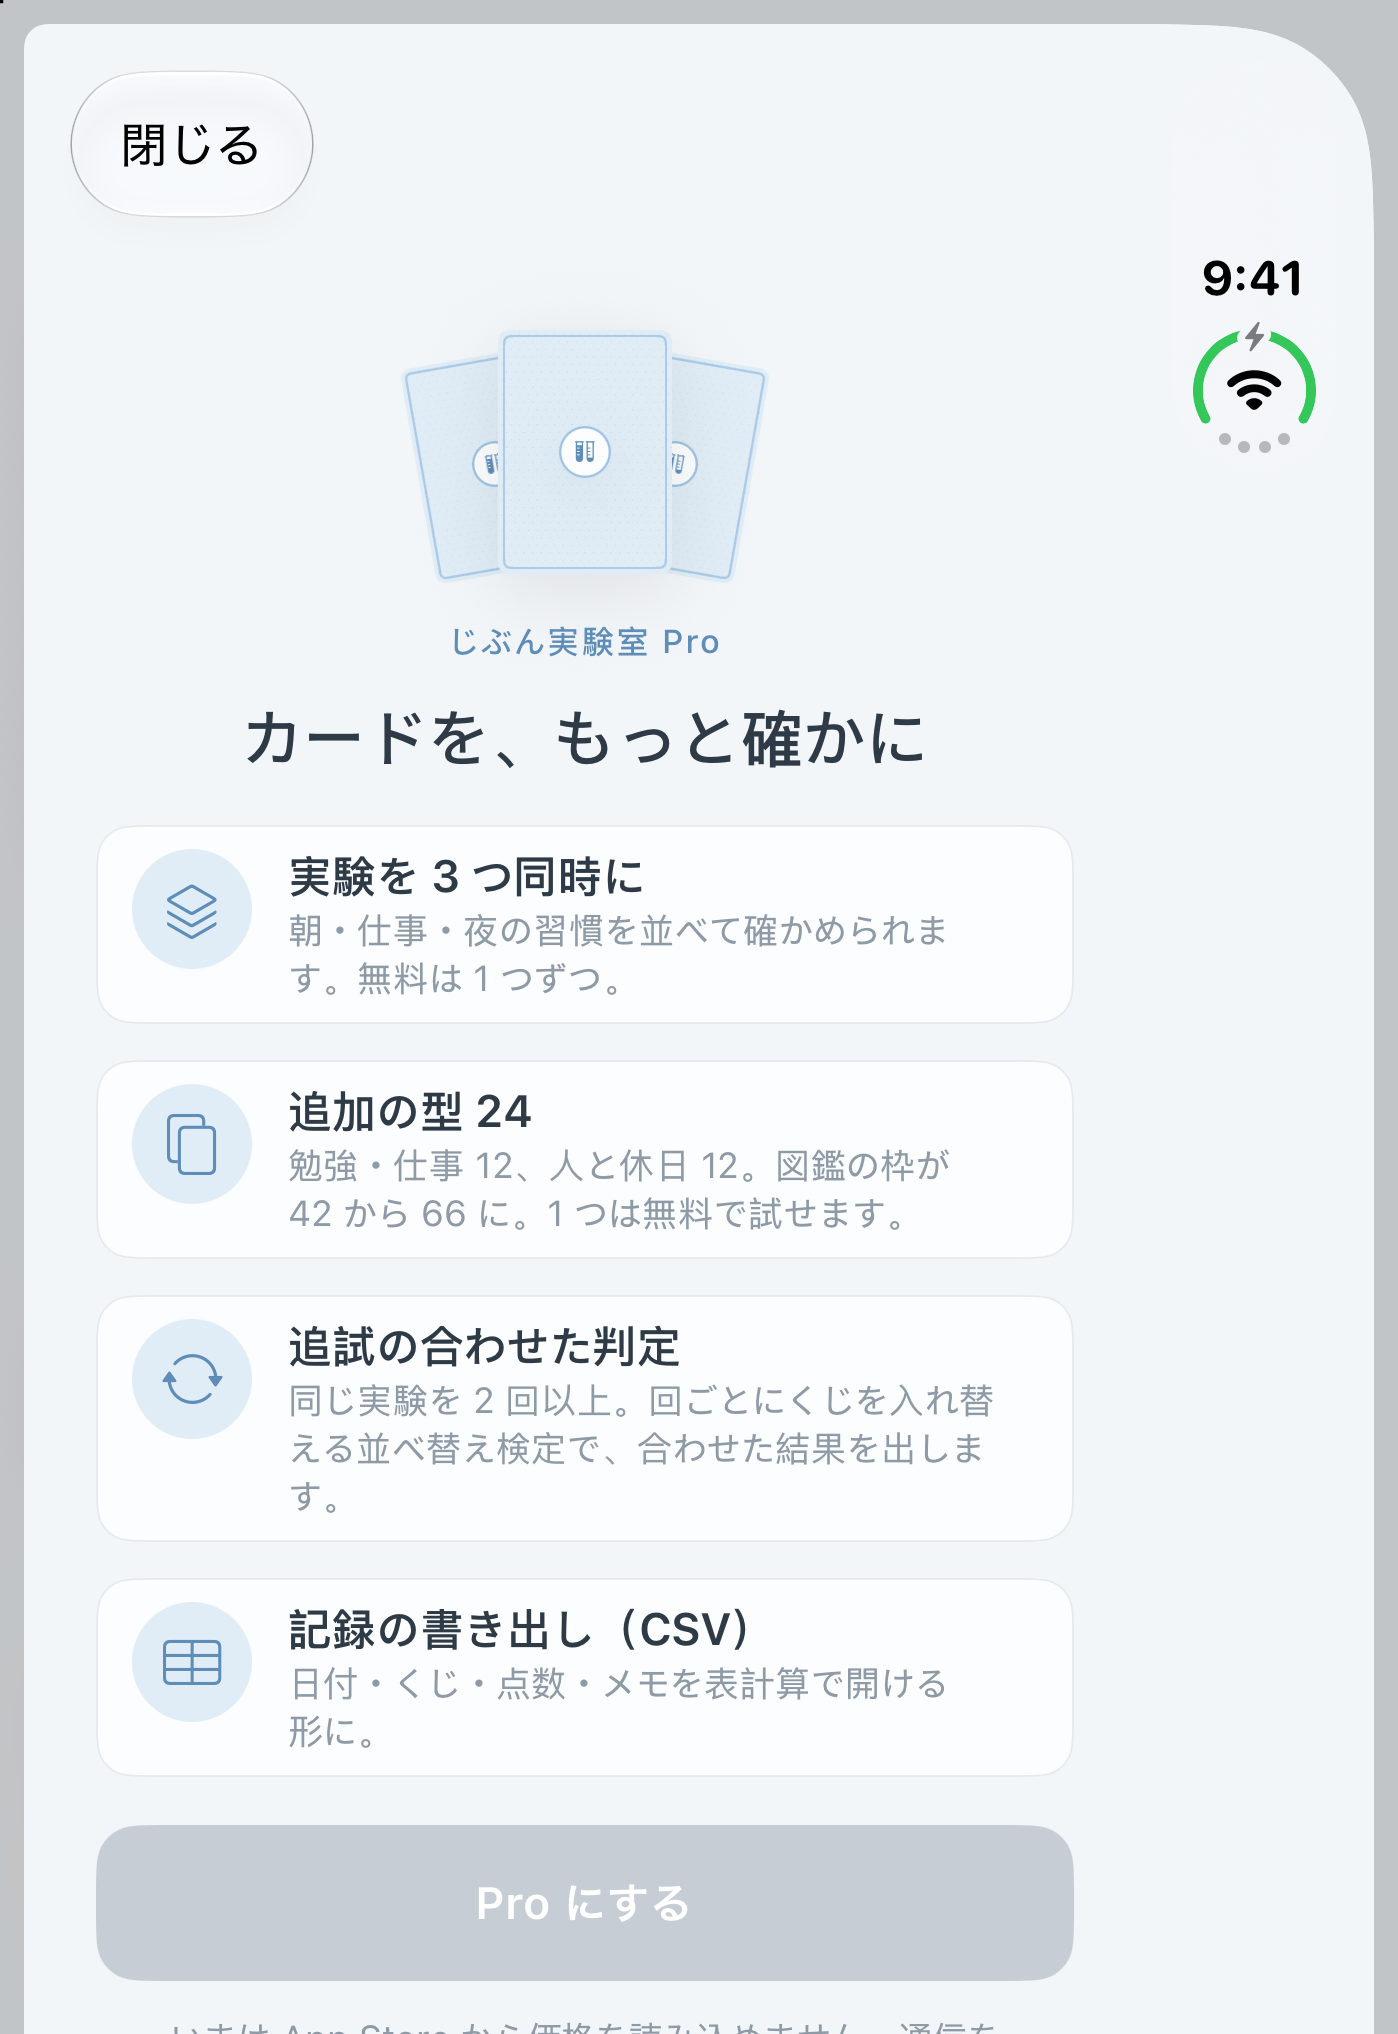
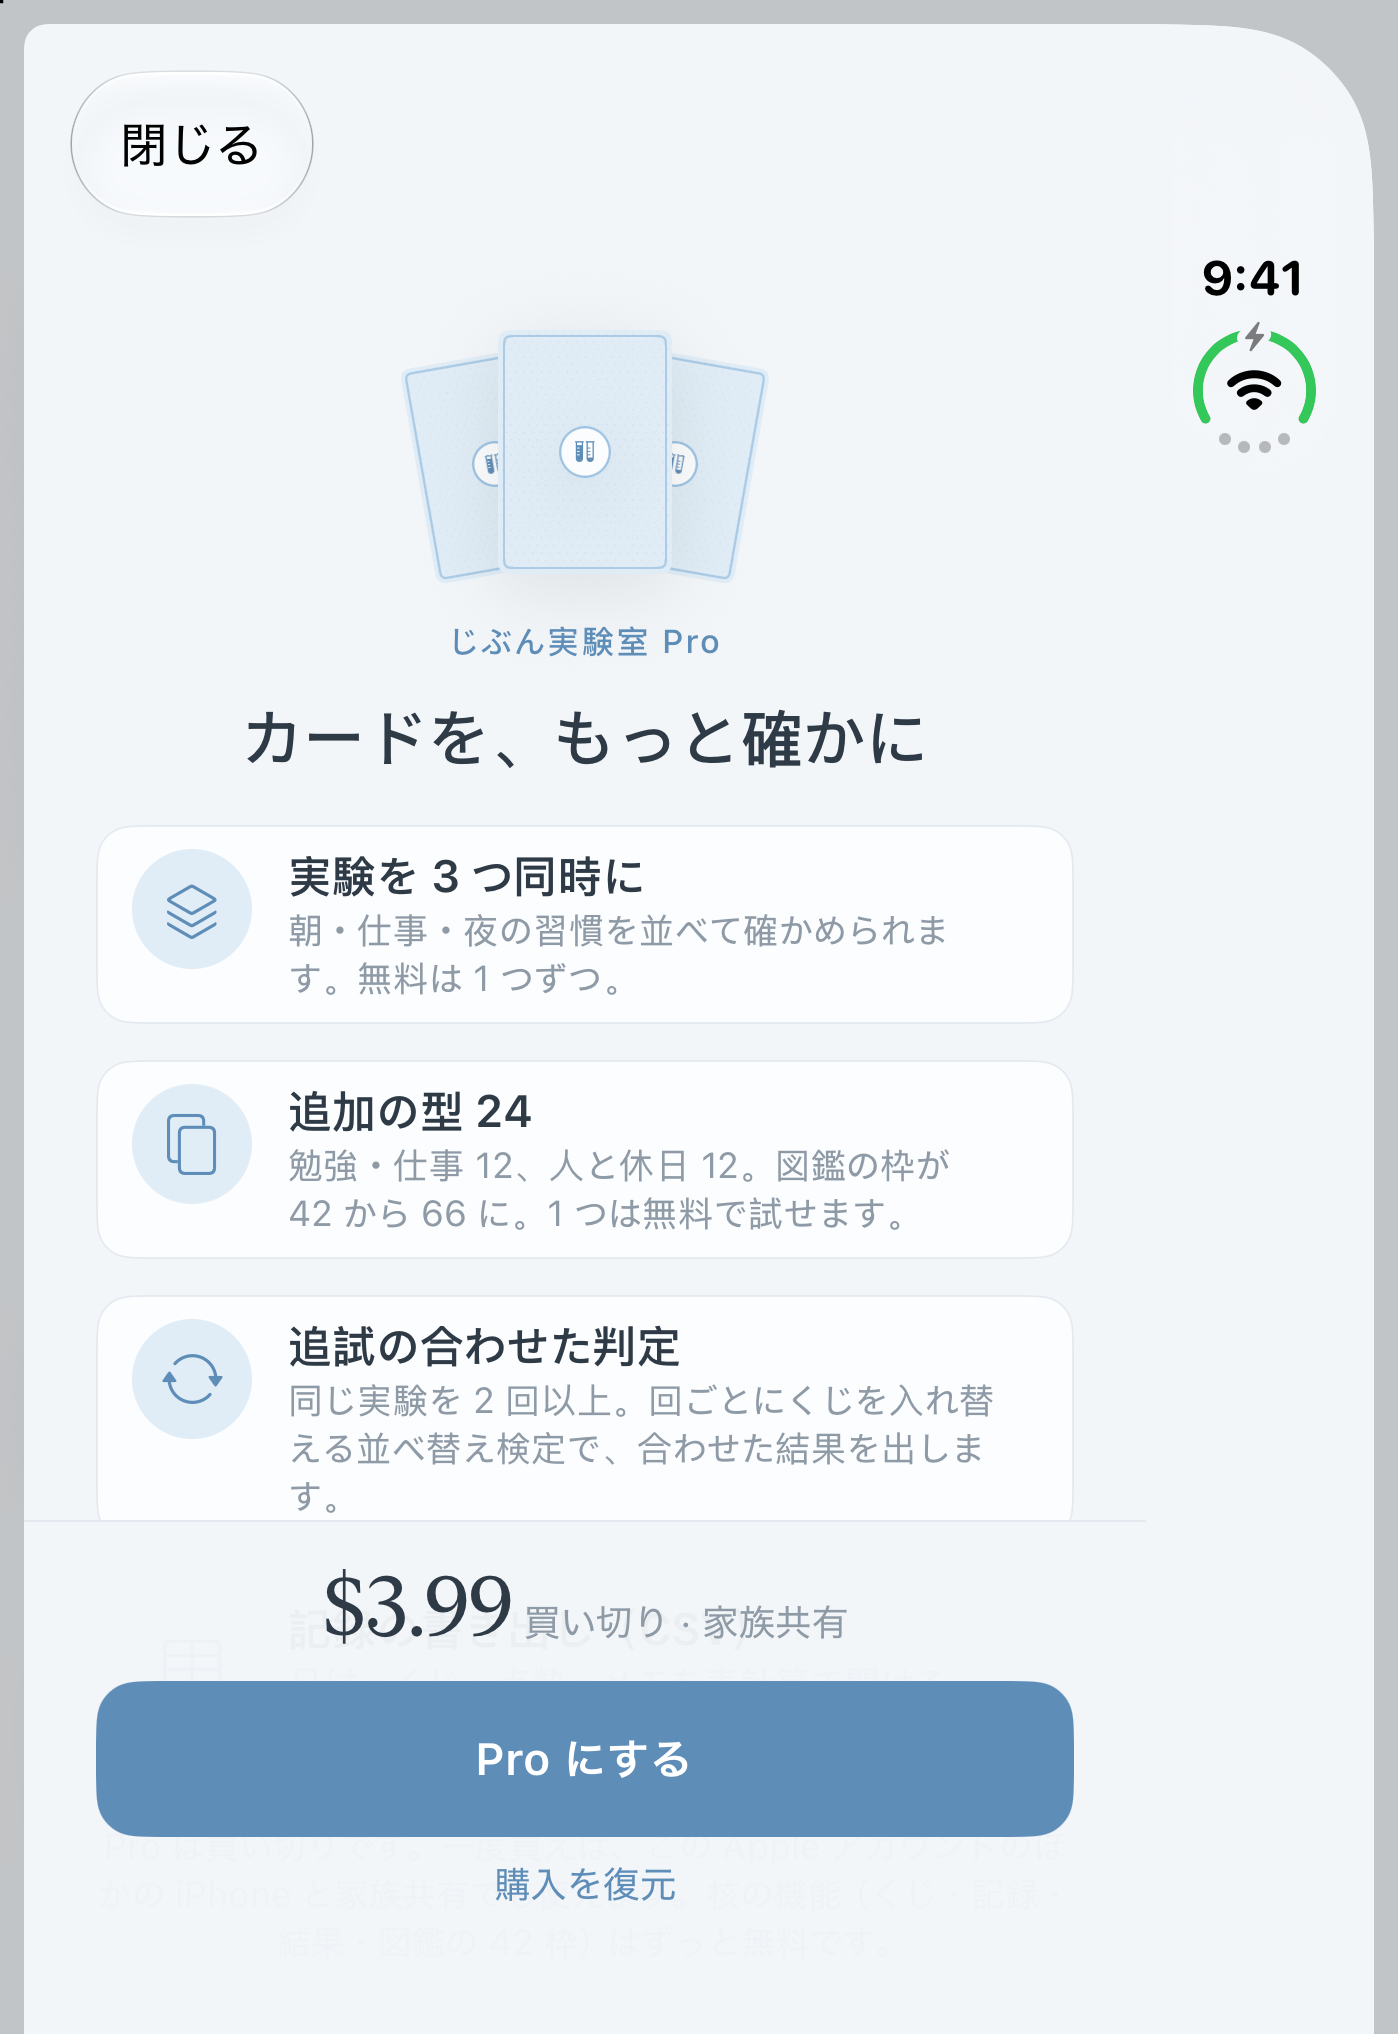
課金の画面の下の帯を不透明に。審査用の画像を値段の見える版に差し替える

Changed region(s): [[0.0615, 0.7743, 0.769, 1.0]]

diff --git a/App/Sources/PaywallView.swift b/App/Sources/PaywallView.swift
@@ -56,7 +56,7 @@ struct PaywallView: View {
                     .padding(.bottom, Space.s)
                     .frame(maxWidth: 520)
                     .frame(maxWidth: .infinity)
-                    .background(Palette.ground.opacity(0.96).ignoresSafeArea(edges: .bottom))
+                    .background(Palette.ground.ignoresSafeArea(edges: .bottom))
                     .overlay(alignment: .top) {
                         Rectangle().fill(Palette.line).frame(height: 0.6)
                     }
